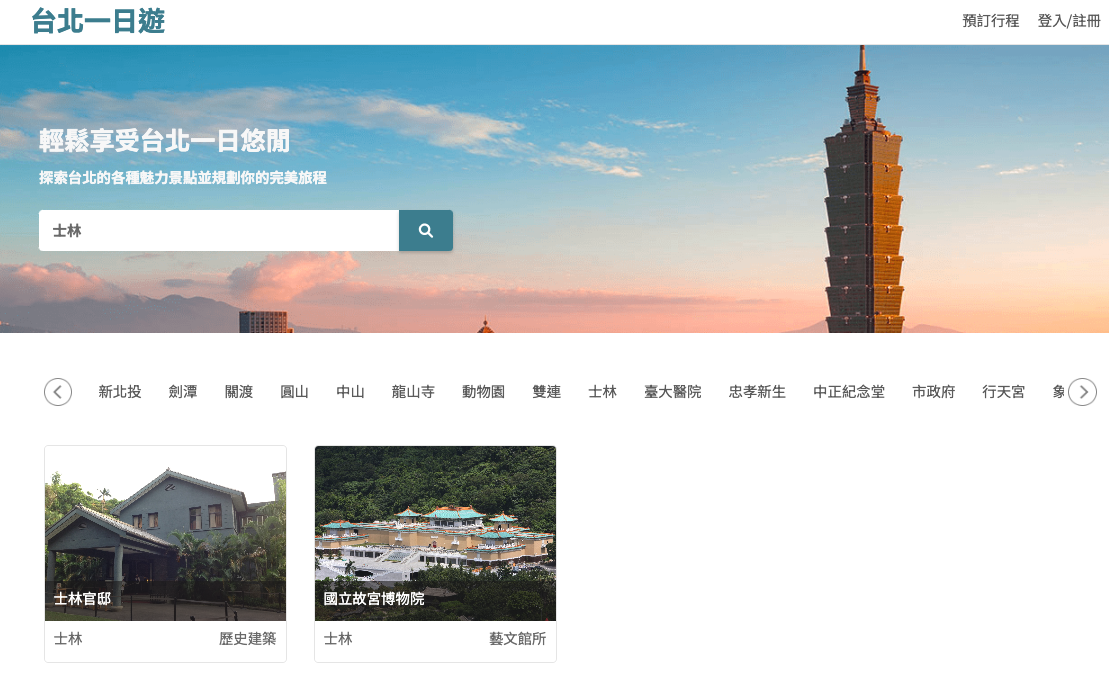
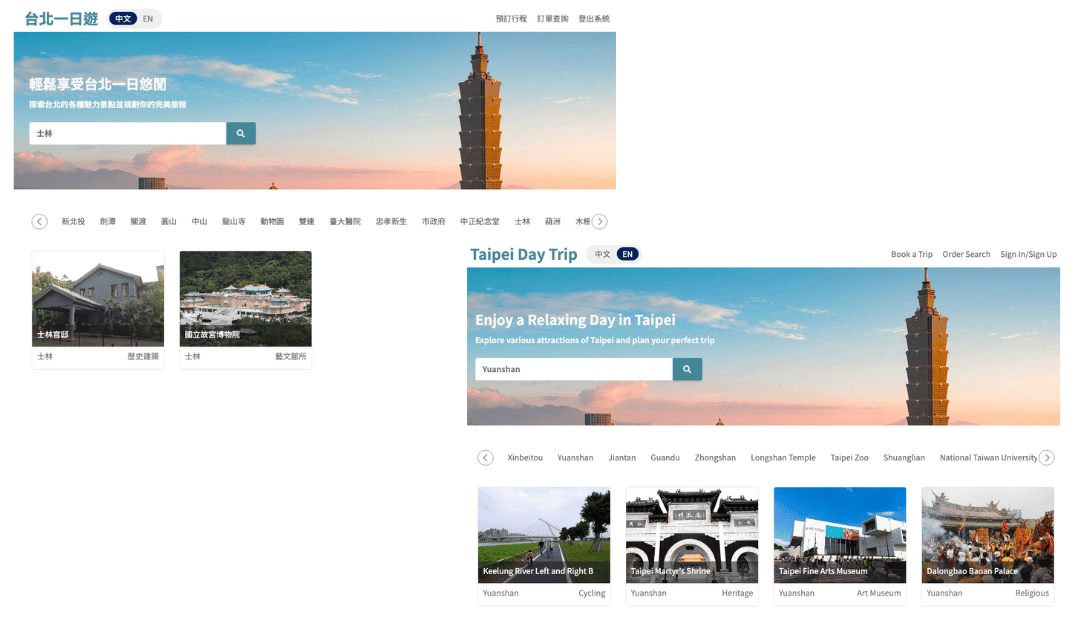
update README

diff --git a/README.md b/README.md
@@ -3,7 +3,7 @@
 [![js-standard-style](https://img.shields.io/badge/code%20style-standard-brightgreen.svg)](http://standardjs.com)
 
 <div align="center">
-  <img width="100%" align="center" src="/static/images/demo_pic.png">
+  <img width="100%" align="center" src="/static/images/trip_demo.png">
 </div>
 
 ## About Taipei-Day-Trip
@@ -21,6 +21,14 @@ Taipei-Day-Trip is an e-commerce travel platform that makes it easy to explore T
 | Email          | Password |
 | -------------- | -------- |
 | test@gmail.com | 123456   |
+
+<br>
+
+## Switch to the English Version
+
+<div align="center">
+  <img width="80%" align="center" src="/static/images/trip_en.png">
+</div>
 
 <br>
 
